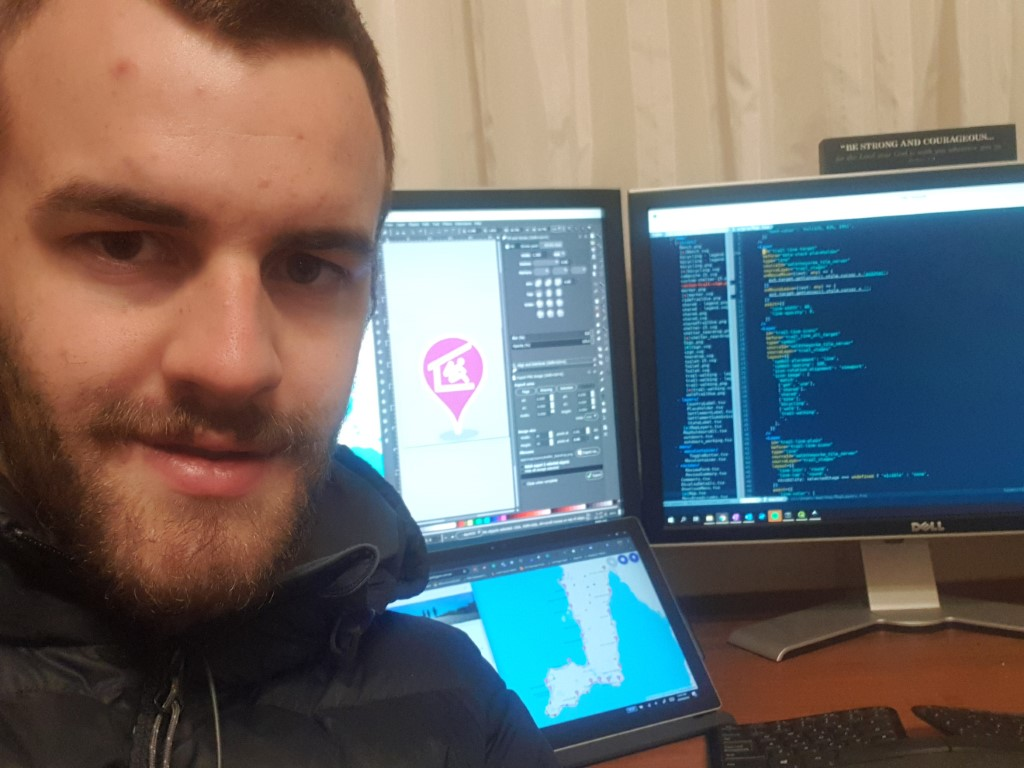
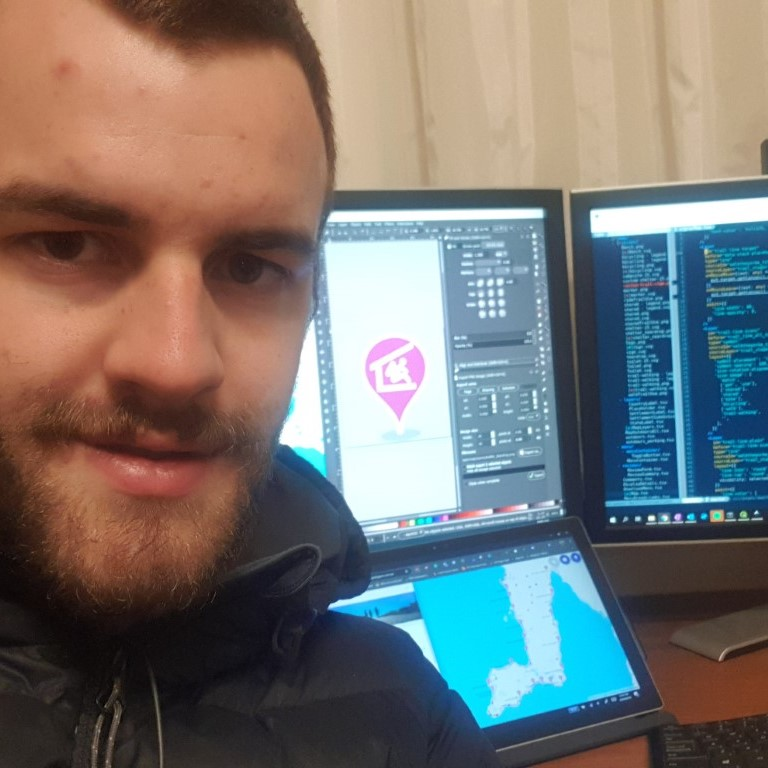
updated erronous bootstrap 3 boilerplate; profile image to square

diff --git a/index.html b/index.html
@@ -1,34 +1,28 @@
 <!doctype html>
 <html lang="en">
   <head>
+    <!-- Required meta tags -->
     <meta charset="utf-8">
-    <meta http-equiv="X-UA-Compatible" content="IE=edge">
-    <meta name="viewport" content="width=device-width, initial-scale=1">
-    <!-- The above 3 meta tags *must* come first in the head; any other head content must come *after* these tags -->
+    <meta name="viewport" content="width=device-width, initial-scale=1, shrink-to-fit=no">
+
+    <!-- Bootstrap CSS -->
+    <link rel="stylesheet" href="https://stackpath.bootstrapcdn.com/bootstrap/4.3.1/css/bootstrap.min.css" integrity="sha384-ggOyR0iXCbMQv3Xipma34MD+dH/1fQ784/j6cY/iJTQUOhcWr7x9JvoRxT2MZw1T" crossorigin="anonymous">
+
     <title>Joshua Gore</title>
-
-    <!-- Bootstrap -->
-    <link rel="stylesheet" href="https://stackpath.bootstrapcdn.com/bootstrap/3.4.1/css/bootstrap.min.css" integrity="sha384-HSMxcRTRxnN+Bdg0JdbxYKrThecOKuH5zCYotlSAcp1+c8xmyTe9GYg1l9a69psu" crossorigin="anonymous">
-
-    <!-- HTML5 shim and Respond.js for IE8 support of HTML5 elements and media queries -->
-    <!-- WARNING: Respond.js doesn't work if you view the page via file:// -->
-    <!--[if lt IE 9]>
-      <script src="https://oss.maxcdn.com/html5shiv/3.7.3/html5shiv.min.js"></script>
-      <script src="https://oss.maxcdn.com/respond/1.4.2/respond.min.js"></script>
-    <![endif]-->
   </head>
   <body>
     <div class="container">
       <div class="row">
         <div class="col">
-          <img src="./img/profile_resized.jpg" alt="Profile Photo" class="img-fluid rounded" >
+          <img src="./img/profile_resized.jpg" class="mx-auto d-block img-fluid rounded-circle" width="200" >
         </div>
       </div>
     </div>
 
-    <!-- jQuery (necessary for Bootstrap's JavaScript plugins) -->
-    <script src="https://code.jquery.com/jquery-1.12.4.min.js" integrity="sha384-nvAa0+6Qg9clwYCGGPpDQLVpLNn0fRaROjHqs13t4Ggj3Ez50XnGQqc/r8MhnRDZ" crossorigin="anonymous"></script>
-    <!-- Include all compiled plugins (below), or include individual files as needed -->
-    <script src="https://stackpath.bootstrapcdn.com/bootstrap/3.4.1/js/bootstrap.min.js" integrity="sha384-aJ21OjlMXNL5UyIl/XNwTMqvzeRMZH2w8c5cRVpzpU8Y5bApTppSuUkhZXN0VxHd" crossorigin="anonymous"></script>
+    <!-- Optional JavaScript -->
+    <!-- jQuery first, then Popper.js, then Bootstrap JS -->
+    <script src="https://code.jquery.com/jquery-3.3.1.slim.min.js" integrity="sha384-q8i/X+965DzO0rT7abK41JStQIAqVgRVzpbzo5smXKp4YfRvH+8abtTE1Pi6jizo" crossorigin="anonymous"></script>
+    <script src="https://cdnjs.cloudflare.com/ajax/libs/popper.js/1.14.7/umd/popper.min.js" integrity="sha384-UO2eT0CpHqdSJQ6hJty5KVphtPhzWj9WO1clHTMGa3JDZwrnQq4sF86dIHNDz0W1" crossorigin="anonymous"></script>
+    <script src="https://stackpath.bootstrapcdn.com/bootstrap/4.3.1/js/bootstrap.min.js" integrity="sha384-JjSmVgyd0p3pXB1rRibZUAYoIIy6OrQ6VrjIEaFf/nJGzIxFDsf4x0xIM+B07jRM" crossorigin="anonymous"></script>
   </body>
 </html>
